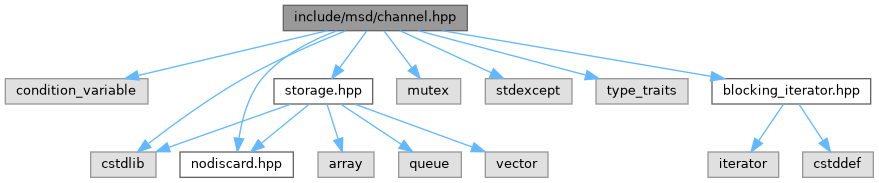
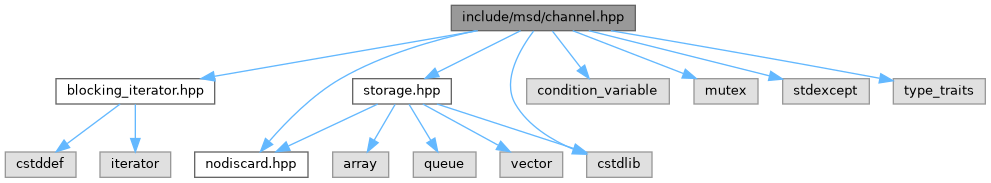
deploy: cc43d2cd2d33fa04836a93aedcb91f9f5c55fc00

diff --git a/static__channel_8hpp.html b/static__channel_8hpp.html
@@ -78,47 +78,47 @@ $(function() {
   <div class="headertitle"><div class="title">static_channel.hpp File Reference</div></div>
 </div><!--header-->
 <div class="contents">
-<div class="textblock"><code>#include &lt;cstdlib&gt;</code><br />
-<code>#include &quot;<a class="el" href="channel_8hpp_source.html">channel.hpp</a>&quot;</code><br />
+<div class="textblock"><code>#include &quot;<a class="el" href="channel_8hpp_source.html">channel.hpp</a>&quot;</code><br />
 <code>#include &quot;<a class="el" href="storage_8hpp_source.html">storage.hpp</a>&quot;</code><br />
+<code>#include &lt;cstdlib&gt;</code><br />
 </div><div class="textblock"><div class="dynheader">
 Include dependency graph for static_channel.hpp:</div>
 <div class="dyncontent">
 <div class="center"><img src="static__channel_8hpp__incl.png" border="0" usemap="#ainclude_2msd_2static__channel_8hpp" alt=""/></div>
 <map name="ainclude_2msd_2static__channel_8hpp" id="ainclude_2msd_2static__channel_8hpp">
-<area shape="rect" title=" " alt="" coords="481,5,622,45"/>
-<area shape="rect" title=" " alt="" coords="479,240,544,265"/>
-<area shape="poly" title=" " alt="" coords="481,38,418,52,348,77,315,94,283,114,255,139,232,168,228,180,232,190,247,202,270,213,332,229,402,240,465,246,465,251,401,245,331,234,268,218,244,207,228,194,222,180,228,165,252,135,280,110,312,89,346,72,416,47,480,32"/>
-<area shape="rect" href="channel_8hpp.html" title=" " alt="" coords="501,93,602,119"/>
-<area shape="poly" title=" " alt="" coords="554,46,554,79,549,79,549,46"/>
-<area shape="rect" href="storage_8hpp.html" title=" " alt="" coords="829,167,927,192"/>
-<area shape="poly" title=" " alt="" coords="593,43,842,158,840,163,591,48"/>
-<area shape="poly" title=" " alt="" coords="551,120,521,227,516,226,545,118"/>
-<area shape="rect" title=" " alt="" coords="243,167,385,192"/>
-<area shape="poly" title=" " alt="" coords="514,121,366,165,365,160,512,116"/>
-<area shape="rect" title=" " alt="" coords="410,167,474,192"/>
-<area shape="poly" title=" " alt="" coords="535,121,473,161,470,157,532,116"/>
-<area shape="rect" title=" " alt="" coords="549,167,636,192"/>
-<area shape="poly" title=" " alt="" coords="560,118,581,153,577,156,556,120"/>
-<area shape="rect" title=" " alt="" coords="712,167,804,192"/>
-<area shape="poly" title=" " alt="" coords="585,116,712,160,711,165,584,121"/>
-<area shape="rect" href="blocking__iterator_8hpp.html" title=" " alt="" coords="8,167,167,192"/>
-<area shape="poly" title=" " alt="" coords="501,118,176,167,175,162,500,112"/>
-<area shape="rect" href="nodiscard_8hpp.html" title=" " alt="" coords="621,240,735,265"/>
-<area shape="poly" title=" " alt="" coords="581,116,616,136,649,165,667,195,676,225,671,227,662,197,645,168,613,140,578,121"/>
-<area shape="poly" title=" " alt="" coords="603,116,816,162,815,167,601,121"/>
-<area shape="rect" title=" " alt="" coords="5,240,76,265"/>
-<area shape="poly" title=" " alt="" coords="82,194,58,230,54,227,77,191"/>
-<area shape="rect" title=" " alt="" coords="100,240,171,265"/>
-<area shape="poly" title=" " alt="" coords="97,191,122,227,118,230,93,194"/>
-<area shape="poly" title=" " alt="" coords="829,193,558,245,557,240,828,188"/>
-<area shape="poly" title=" " alt="" coords="847,195,725,238,723,233,845,190"/>
-<area shape="rect" title=" " alt="" coords="850,240,906,265"/>
-<area shape="poly" title=" " alt="" coords="881,192,881,226,875,226,875,192"/>
-<area shape="rect" title=" " alt="" coords="931,240,993,265"/>
-<area shape="poly" title=" " alt="" coords="893,190,939,229,936,233,890,194"/>
-<area shape="rect" title=" " alt="" coords="763,240,825,265"/>
-<area shape="poly" title=" " alt="" coords="866,194,820,233,817,229,863,190"/>
+<area shape="rect" title=" " alt="" coords="384,5,525,45"/>
+<area shape="rect" href="channel_8hpp.html" title=" " alt="" coords="404,93,505,119"/>
+<area shape="poly" title=" " alt="" coords="457,46,457,79,452,79,452,46"/>
+<area shape="rect" href="storage_8hpp.html" title=" " alt="" coords="96,167,195,192"/>
+<area shape="poly" title=" " alt="" coords="417,48,182,163,180,158,415,43"/>
+<area shape="rect" title=" " alt="" coords="397,240,462,265"/>
+<area shape="poly" title=" " alt="" coords="526,32,631,51,686,64,736,82,778,103,805,128,812,143,813,159,807,176,795,194,773,210,740,223,653,241,557,250,476,254,476,248,557,245,652,236,738,218,770,206,791,190,803,174,807,158,806,144,800,131,775,107,734,87,684,70,630,56,525,38"/>
+<area shape="rect" href="blocking__iterator_8hpp.html" title=" " alt="" coords="857,167,1015,192"/>
+<area shape="poly" title=" " alt="" coords="506,112,845,162,844,167,505,117"/>
+<area shape="rect" href="nodiscard_8hpp.html" title=" " alt="" coords="259,240,373,265"/>
+<area shape="poly" title=" " alt="" coords="445,121,338,232,335,228,441,117"/>
+<area shape="poly" title=" " alt="" coords="406,121,209,166,207,161,404,116"/>
+<area shape="poly" title=" " alt="" coords="450,120,438,142,429,167,426,197,428,226,423,226,421,197,424,166,433,140,445,118"/>
+<area shape="rect" title=" " alt="" coords="438,167,581,192"/>
+<area shape="poly" title=" " alt="" coords="466,117,494,154,490,157,462,121"/>
+<area shape="rect" title=" " alt="" coords="605,167,669,192"/>
+<area shape="poly" title=" " alt="" coords="485,116,596,159,594,164,483,121"/>
+<area shape="rect" title=" " alt="" coords="694,167,781,192"/>
+<area shape="poly" title=" " alt="" coords="501,116,681,161,680,166,499,121"/>
+<area shape="rect" title=" " alt="" coords="219,167,311,192"/>
+<area shape="poly" title=" " alt="" coords="425,121,310,164,308,159,423,116"/>
+<area shape="rect" title=" " alt="" coords="947,240,1018,265"/>
+<area shape="poly" title=" " alt="" coords="946,191,970,227,965,230,941,194"/>
+<area shape="rect" title=" " alt="" coords="853,240,923,265"/>
+<area shape="poly" title=" " alt="" coords="930,194,906,230,901,227,926,191"/>
+<area shape="poly" title=" " alt="" coords="174,190,277,232,275,237,172,194"/>
+<area shape="rect" title=" " alt="" coords="5,240,61,265"/>
+<area shape="poly" title=" " alt="" coords="129,194,65,235,62,230,126,190"/>
+<area shape="poly" title=" " alt="" coords="192,189,384,237,383,242,190,195"/>
+<area shape="rect" title=" " alt="" coords="86,240,149,265"/>
+<area shape="poly" title=" " alt="" coords="143,193,129,228,124,226,138,191"/>
+<area shape="rect" title=" " alt="" coords="173,240,235,265"/>
+<area shape="poly" title=" " alt="" coords="157,191,188,228,184,231,153,194"/>
 </map>
 </div>
 </div>

diff --git a/channel_8hpp.html b/channel_8hpp.html
@@ -80,48 +80,48 @@ $(function() {
   <div class="headertitle"><div class="title">channel.hpp File Reference</div></div>
 </div><!--header-->
 <div class="contents">
-<div class="textblock"><code>#include &lt;condition_variable&gt;</code><br />
+<div class="textblock"><code>#include &quot;<a class="el" href="blocking__iterator_8hpp_source.html">blocking_iterator.hpp</a>&quot;</code><br />
+<code>#include &quot;<a class="el" href="nodiscard_8hpp_source.html">nodiscard.hpp</a>&quot;</code><br />
+<code>#include &quot;<a class="el" href="storage_8hpp_source.html">storage.hpp</a>&quot;</code><br />
+<code>#include &lt;condition_variable&gt;</code><br />
 <code>#include &lt;cstdlib&gt;</code><br />
 <code>#include &lt;mutex&gt;</code><br />
 <code>#include &lt;stdexcept&gt;</code><br />
 <code>#include &lt;type_traits&gt;</code><br />
-<code>#include &quot;<a class="el" href="blocking__iterator_8hpp_source.html">blocking_iterator.hpp</a>&quot;</code><br />
-<code>#include &quot;<a class="el" href="nodiscard_8hpp_source.html">nodiscard.hpp</a>&quot;</code><br />
-<code>#include &quot;<a class="el" href="storage_8hpp_source.html">storage.hpp</a>&quot;</code><br />
 </div><div class="textblock"><div class="dynheader">
 Include dependency graph for channel.hpp:</div>
 <div class="dyncontent">
 <div class="center"><img src="channel_8hpp__incl.png" border="0" usemap="#ainclude_2msd_2channel_8hpp" alt=""/></div>
 <map name="ainclude_2msd_2channel_8hpp" id="ainclude_2msd_2channel_8hpp">
-<area shape="rect" title=" " alt="" coords="283,5,467,31"/>
-<area shape="rect" title=" " alt="" coords="5,79,148,104"/>
-<area shape="poly" title=" " alt="" coords="328,33,139,78,138,73,327,28"/>
-<area shape="rect" title=" " alt="" coords="91,152,156,177"/>
-<area shape="poly" title=" " alt="" coords="347,33,298,54,245,81,193,114,150,145,147,141,190,109,242,76,296,49,345,28"/>
-<area shape="rect" title=" " alt="" coords="397,79,461,104"/>
-<area shape="poly" title=" " alt="" coords="386,29,414,66,410,69,382,33"/>
-<area shape="rect" title=" " alt="" coords="485,79,572,104"/>
-<area shape="poly" title=" " alt="" coords="401,28,492,70,490,75,399,33"/>
-<area shape="rect" title=" " alt="" coords="596,79,688,104"/>
-<area shape="poly" title=" " alt="" coords="419,28,586,72,585,78,417,33"/>
-<area shape="rect" href="blocking__iterator_8hpp.html" title=" " alt="" coords="712,79,871,104"/>
-<area shape="poly" title=" " alt="" coords="443,28,712,74,711,79,442,33"/>
-<area shape="rect" href="nodiscard_8hpp.html" title=" " alt="" coords="180,152,293,177"/>
-<area shape="poly" title=" " alt="" coords="338,33,299,52,280,65,264,80,249,109,242,139,236,137,244,107,260,77,277,61,296,47,335,28"/>
-<area shape="rect" href="storage_8hpp.html" title=" " alt="" coords="274,79,373,104"/>
-<area shape="poly" title=" " alt="" coords="369,33,342,69,338,66,365,29"/>
-<area shape="rect" title=" " alt="" coords="803,152,873,177"/>
-<area shape="poly" title=" " alt="" coords="801,103,825,139,821,142,797,106"/>
-<area shape="rect" title=" " alt="" coords="708,152,779,177"/>
-<area shape="poly" title=" " alt="" coords="786,106,761,142,756,139,781,103"/>
-<area shape="poly" title=" " alt="" coords="292,107,170,150,168,145,290,102"/>
-<area shape="poly" title=" " alt="" coords="311,106,263,145,260,141,308,102"/>
-<area shape="rect" title=" " alt="" coords="318,152,374,177"/>
-<area shape="poly" title=" " alt="" coords="330,104,341,138,336,140,325,105"/>
-<area shape="rect" title=" " alt="" coords="399,152,461,177"/>
-<area shape="poly" title=" " alt="" coords="342,102,403,142,400,147,339,106"/>
-<area shape="rect" title=" " alt="" coords="485,152,548,177"/>
-<area shape="poly" title=" " alt="" coords="355,102,473,145,472,150,353,107"/>
+<area shape="rect" title=" " alt="" coords="451,5,635,31"/>
+<area shape="rect" href="blocking__iterator_8hpp.html" title=" " alt="" coords="56,79,215,104"/>
+<area shape="poly" title=" " alt="" coords="478,33,215,79,214,74,477,28"/>
+<area shape="rect" href="nodiscard_8hpp.html" title=" " alt="" coords="195,152,308,177"/>
+<area shape="poly" title=" " alt="" coords="477,33,409,52,342,81,303,111,271,143,268,139,299,107,339,76,408,47,475,28"/>
+<area shape="rect" href="storage_8hpp.html" title=" " alt="" coords="353,79,451,104"/>
+<area shape="poly" title=" " alt="" coords="522,33,438,75,436,70,519,28"/>
+<area shape="rect" title=" " alt="" coords="587,152,652,177"/>
+<area shape="poly" title=" " alt="" coords="536,32,517,66,513,85,518,103,529,117,543,129,575,147,572,152,540,134,525,121,513,105,508,85,512,64,531,30"/>
+<area shape="rect" title=" " alt="" coords="527,79,669,104"/>
+<area shape="poly" title=" " alt="" coords="554,29,583,66,579,69,550,33"/>
+<area shape="rect" title=" " alt="" coords="694,79,758,104"/>
+<area shape="poly" title=" " alt="" coords="574,28,684,71,682,76,572,33"/>
+<area shape="rect" title=" " alt="" coords="783,79,869,104"/>
+<area shape="poly" title=" " alt="" coords="589,28,770,73,769,78,588,33"/>
+<area shape="rect" title=" " alt="" coords="893,79,985,104"/>
+<area shape="poly" title=" " alt="" coords="611,28,880,76,879,81,610,33"/>
+<area shape="rect" title=" " alt="" coords="5,152,76,177"/>
+<area shape="poly" title=" " alt="" coords="122,106,69,146,66,141,119,102"/>
+<area shape="rect" title=" " alt="" coords="100,152,171,177"/>
+<area shape="poly" title=" " alt="" coords="138,104,138,138,133,138,133,104"/>
+<area shape="poly" title=" " alt="" coords="379,106,290,148,287,144,377,102"/>
+<area shape="rect" title=" " alt="" coords="333,152,389,177"/>
+<area shape="poly" title=" " alt="" coords="397,106,377,141,372,139,393,103"/>
+<area shape="poly" title=" " alt="" coords="438,101,574,146,573,151,436,107"/>
+<area shape="rect" title=" " alt="" coords="413,152,476,177"/>
+<area shape="poly" title=" " alt="" coords="411,103,433,139,429,142,407,106"/>
+<area shape="rect" title=" " alt="" coords="500,152,563,177"/>
+<area shape="poly" title=" " alt="" coords="424,102,499,143,497,147,422,106"/>
 </map>
 </div>
 </div><div class="textblock"><div class="dynheader">

diff --git a/channel_8hpp_source.html b/channel_8hpp_source.html
@@ -87,15 +87,15 @@ $(document).ready(function() { init_codefold(0); });
 <div class="line"><a id="l00003" name="l00003"></a><span class="lineno">    3</span><span class="preprocessor">#ifndef MSD_CHANNEL_CHANNEL_HPP_</span></div>
 <div class="line"><a id="l00004" name="l00004"></a><span class="lineno">    4</span><span class="preprocessor">#define MSD_CHANNEL_CHANNEL_HPP_</span></div>
 <div class="line"><a id="l00005" name="l00005"></a><span class="lineno">    5</span> </div>
-<div class="line"><a id="l00006" name="l00006"></a><span class="lineno">    6</span><span class="preprocessor">#include &lt;condition_variable&gt;</span></div>
-<div class="line"><a id="l00007" name="l00007"></a><span class="lineno">    7</span><span class="preprocessor">#include &lt;cstdlib&gt;</span></div>
-<div class="line"><a id="l00008" name="l00008"></a><span class="lineno">    8</span><span class="preprocessor">#include &lt;mutex&gt;</span></div>
-<div class="line"><a id="l00009" name="l00009"></a><span class="lineno">    9</span><span class="preprocessor">#include &lt;stdexcept&gt;</span></div>
-<div class="line"><a id="l00010" name="l00010"></a><span class="lineno">   10</span><span class="preprocessor">#include &lt;type_traits&gt;</span></div>
-<div class="line"><a id="l00011" name="l00011"></a><span class="lineno">   11</span> </div>
-<div class="line"><a id="l00012" name="l00012"></a><span class="lineno">   12</span><span class="preprocessor">#include &quot;<a class="code" href="blocking__iterator_8hpp.html">blocking_iterator.hpp</a>&quot;</span></div>
-<div class="line"><a id="l00013" name="l00013"></a><span class="lineno">   13</span><span class="preprocessor">#include &quot;<a class="code" href="nodiscard_8hpp.html">nodiscard.hpp</a>&quot;</span></div>
-<div class="line"><a id="l00014" name="l00014"></a><span class="lineno">   14</span><span class="preprocessor">#include &quot;<a class="code" href="storage_8hpp.html">storage.hpp</a>&quot;</span></div>
+<div class="line"><a id="l00006" name="l00006"></a><span class="lineno">    6</span><span class="preprocessor">#include &quot;<a class="code" href="blocking__iterator_8hpp.html">blocking_iterator.hpp</a>&quot;</span></div>
+<div class="line"><a id="l00007" name="l00007"></a><span class="lineno">    7</span><span class="preprocessor">#include &quot;<a class="code" href="nodiscard_8hpp.html">nodiscard.hpp</a>&quot;</span></div>
+<div class="line"><a id="l00008" name="l00008"></a><span class="lineno">    8</span><span class="preprocessor">#include &quot;<a class="code" href="storage_8hpp.html">storage.hpp</a>&quot;</span></div>
+<div class="line"><a id="l00009" name="l00009"></a><span class="lineno">    9</span> </div>
+<div class="line"><a id="l00010" name="l00010"></a><span class="lineno">   10</span><span class="preprocessor">#include &lt;condition_variable&gt;</span></div>
+<div class="line"><a id="l00011" name="l00011"></a><span class="lineno">   11</span><span class="preprocessor">#include &lt;cstdlib&gt;</span></div>
+<div class="line"><a id="l00012" name="l00012"></a><span class="lineno">   12</span><span class="preprocessor">#include &lt;mutex&gt;</span></div>
+<div class="line"><a id="l00013" name="l00013"></a><span class="lineno">   13</span><span class="preprocessor">#include &lt;stdexcept&gt;</span></div>
+<div class="line"><a id="l00014" name="l00014"></a><span class="lineno">   14</span><span class="preprocessor">#include &lt;type_traits&gt;</span></div>
 <div class="line"><a id="l00015" name="l00015"></a><span class="lineno">   15</span> </div>
 <div class="line"><a id="l00018" name="l00018"></a><span class="lineno">   18</span><span class="keyword">namespace </span>msd {</div>
 <div class="line"><a id="l00019" name="l00019"></a><span class="lineno">   19</span> </div>

diff --git a/index.html b/index.html
@@ -145,14 +145,16 @@ Installation</h1>
 <ul>
 <li>Copy the <a href="https://github.com/andreiavrammsd/cpp-channel/tree/master/include">include</a> directory into your project and add it to your include path.</li>
 <li><a href="https://github.com/andreiavrammsd/cpp-channel/tree/master/examples/cmake-project">CMake FetchContent</a></li>
-<li><a href="https://cmake.org/cmake/help/latest/command/install.html">CMake install</a> - choose a <a href="https://github.com/andreiavrammsd/cpp-channel/releases">version</a>, then run: <div class="fragment"><div class="line">VERSION=X.Y.Z \</div>
+<li><a href="https://cmake.org/cmake/help/latest/command/install.html">CMake install</a> - choose a <a href="https://github.com/andreiavrammsd/cpp-channel/releases">version</a>, then run:</li>
+</ul>
+<div class="fragment"><div class="line">VERSION=X.Y.Z \</div>
 <div class="line">    &amp;&amp; wget https://github.com/andreiavrammsd/cpp-channel/archive/refs/tags/v$VERSION.zip \</div>
 <div class="line">    &amp;&amp; unzip v$VERSION.zip \</div>
 <div class="line">    &amp;&amp; cd cpp-channel-$VERSION \</div>
 <div class="line">    &amp;&amp; mkdir build &amp;&amp; cd build \</div>
 <div class="line">    &amp;&amp; cmake .. -DCMAKE_INSTALL_PREFIX=/usr/local \</div>
 <div class="line">    &amp;&amp; sudo cmake --install .</div>
-</div><!-- fragment --></li>
+</div><!-- fragment --><ul>
 <li><a href="https://github.com/andreiavrammsd/cpp-channel/tree/master/examples/bazel-project">Bazel</a></li>
 </ul>
 <h1><a class="anchor" id="autotoc_md5"></a>
@@ -165,16 +167,17 @@ Usage</h1>
 <div class="line"><span class="keywordtype">int</span> main() {</div>
 <div class="line">    <a class="code hl_class" href="classmsd_1_1channel.html">msd::channel&lt;int&gt;</a> chan; <span class="comment">// Unbuffered</span></div>
 <div class="line"> </div>
-<div class="line">    <span class="keywordtype">int</span> in = 1;</div>
-<div class="line">    <span class="keywordtype">int</span> out = 0;</div>
-<div class="line"> </div>
 <div class="line">    <span class="comment">// Send to channel</span></div>
-<div class="line">    chan &lt;&lt; in;</div>
+<div class="line">    chan &lt;&lt; 1 &lt;&lt; 2;</div>
 <div class="line"> </div>
 <div class="line">    <span class="comment">// Read from channel</span></div>
-<div class="line">    chan &gt;&gt; out;</div>
+<div class="line">    <span class="keywordtype">int</span> first{};</div>
+<div class="line">    <span class="keywordtype">int</span> second{};</div>
 <div class="line"> </div>
-<div class="line">    assert(out == 1);</div>
+<div class="line">    chan &gt;&gt; first &gt;&gt; second;</div>
+<div class="line"> </div>
+<div class="line">    assert(first == 1);</div>
+<div class="line">    assert(second == 2);</div>
 <div class="line">}</div>
 <div class="ttc" id="achannel_8hpp_html"><div class="ttname"><a href="channel_8hpp.html">channel.hpp</a></div></div>
 <div class="ttc" id="aclassmsd_1_1channel_html"><div class="ttname"><a href="classmsd_1_1channel.html">msd::channel</a></div><div class="ttdoc">Thread-safe container for sharing data between threads.</div><div class="ttdef"><b>Definition</b> channel.hpp:66</div></div>
@@ -254,8 +257,7 @@ Known limitations</h1>
 <ul>
 <li>In some cases, the integration with some STL algorithms does not compile with MSVC. See the <a href="https://github.com/andreiavrammsd/cpp-channel/blob/master/tests/channel_test.cpp">Transform test</a>.</li>
 </ul>
-<p><br  />
-</p>
+<hr  />
 <p>Developed with <a href="https://www.jetbrains.com/?from=serializer">CLion</a> and <a href="https://code.visualstudio.com/">Visual Studio Code</a>. </p>
 </div></div><!-- PageDoc -->
 </div><!-- contents -->

diff --git a/storage_8hpp.html b/storage_8hpp.html
@@ -78,27 +78,27 @@ $(function() {
   <div class="headertitle"><div class="title">storage.hpp File Reference</div></div>
 </div><!--header-->
 <div class="contents">
-<div class="textblock"><code>#include &lt;array&gt;</code><br />
+<div class="textblock"><code>#include &quot;<a class="el" href="nodiscard_8hpp_source.html">nodiscard.hpp</a>&quot;</code><br />
+<code>#include &lt;array&gt;</code><br />
 <code>#include &lt;cstdlib&gt;</code><br />
 <code>#include &lt;queue&gt;</code><br />
 <code>#include &lt;vector&gt;</code><br />
-<code>#include &quot;<a class="el" href="nodiscard_8hpp_source.html">nodiscard.hpp</a>&quot;</code><br />
 </div><div class="textblock"><div class="dynheader">
 Include dependency graph for storage.hpp:</div>
 <div class="dyncontent">
 <div class="center"><img src="storage_8hpp__incl.png" border="0" usemap="#ainclude_2msd_2storage_8hpp" alt=""/></div>
 <map name="ainclude_2msd_2storage_8hpp" id="ainclude_2msd_2storage_8hpp">
-<area shape="rect" title=" " alt="" coords="115,5,298,31"/>
-<area shape="rect" title=" " alt="" coords="5,79,61,104"/>
-<area shape="poly" title=" " alt="" coords="180,33,75,76,73,71,178,28"/>
-<area shape="rect" title=" " alt="" coords="86,79,151,104"/>
-<area shape="poly" title=" " alt="" coords="194,33,145,72,142,68,191,29"/>
-<area shape="rect" title=" " alt="" coords="175,79,238,104"/>
-<area shape="poly" title=" " alt="" coords="209,31,209,65,204,65,204,31"/>
-<area shape="rect" title=" " alt="" coords="262,79,325,104"/>
-<area shape="poly" title=" " alt="" coords="222,29,270,68,267,72,219,33"/>
-<area shape="rect" href="nodiscard_8hpp.html" title=" " alt="" coords="349,79,462,104"/>
-<area shape="poly" title=" " alt="" coords="239,28,361,71,359,76,238,33"/>
+<area shape="rect" title=" " alt="" coords="165,5,348,31"/>
+<area shape="rect" href="nodiscard_8hpp.html" title=" " alt="" coords="5,79,119,104"/>
+<area shape="poly" title=" " alt="" coords="226,33,107,76,106,71,224,28"/>
+<area shape="rect" title=" " alt="" coords="143,79,199,104"/>
+<area shape="poly" title=" " alt="" coords="245,33,197,72,194,68,241,29"/>
+<area shape="rect" title=" " alt="" coords="224,79,289,104"/>
+<area shape="poly" title=" " alt="" coords="259,31,259,65,254,65,254,31"/>
+<area shape="rect" title=" " alt="" coords="313,79,376,104"/>
+<area shape="poly" title=" " alt="" coords="272,29,321,68,318,72,269,33"/>
+<area shape="rect" title=" " alt="" coords="400,79,463,104"/>
+<area shape="poly" title=" " alt="" coords="286,28,391,71,389,76,284,33"/>
 </map>
 </div>
 </div><div class="textblock"><div class="dynheader">

diff --git a/storage_8hpp_source.html b/storage_8hpp_source.html
@@ -86,12 +86,12 @@ $(document).ready(function() { init_codefold(0); });
 <div class="line"><a id="l00003" name="l00003"></a><span class="lineno">    3</span><span class="preprocessor">#ifndef MSD_CHANNEL_STORAGE_HPP_</span></div>
 <div class="line"><a id="l00004" name="l00004"></a><span class="lineno">    4</span><span class="preprocessor">#define MSD_CHANNEL_STORAGE_HPP_</span></div>
 <div class="line"><a id="l00005" name="l00005"></a><span class="lineno">    5</span> </div>
-<div class="line"><a id="l00006" name="l00006"></a><span class="lineno">    6</span><span class="preprocessor">#include &lt;array&gt;</span></div>
-<div class="line"><a id="l00007" name="l00007"></a><span class="lineno">    7</span><span class="preprocessor">#include &lt;cstdlib&gt;</span></div>
-<div class="line"><a id="l00008" name="l00008"></a><span class="lineno">    8</span><span class="preprocessor">#include &lt;queue&gt;</span></div>
-<div class="line"><a id="l00009" name="l00009"></a><span class="lineno">    9</span><span class="preprocessor">#include &lt;vector&gt;</span></div>
-<div class="line"><a id="l00010" name="l00010"></a><span class="lineno">   10</span> </div>
-<div class="line"><a id="l00011" name="l00011"></a><span class="lineno">   11</span><span class="preprocessor">#include &quot;<a class="code" href="nodiscard_8hpp.html">nodiscard.hpp</a>&quot;</span></div>
+<div class="line"><a id="l00006" name="l00006"></a><span class="lineno">    6</span><span class="preprocessor">#include &quot;<a class="code" href="nodiscard_8hpp.html">nodiscard.hpp</a>&quot;</span></div>
+<div class="line"><a id="l00007" name="l00007"></a><span class="lineno">    7</span> </div>
+<div class="line"><a id="l00008" name="l00008"></a><span class="lineno">    8</span><span class="preprocessor">#include &lt;array&gt;</span></div>
+<div class="line"><a id="l00009" name="l00009"></a><span class="lineno">    9</span><span class="preprocessor">#include &lt;cstdlib&gt;</span></div>
+<div class="line"><a id="l00010" name="l00010"></a><span class="lineno">   10</span><span class="preprocessor">#include &lt;queue&gt;</span></div>
+<div class="line"><a id="l00011" name="l00011"></a><span class="lineno">   11</span><span class="preprocessor">#include &lt;vector&gt;</span></div>
 <div class="line"><a id="l00012" name="l00012"></a><span class="lineno">   12</span> </div>
 <div class="line"><a id="l00015" name="l00015"></a><span class="lineno">   15</span><span class="keyword">namespace </span>msd {</div>
 <div class="line"><a id="l00016" name="l00016"></a><span class="lineno">   16</span> </div>

diff --git a/static__channel_8hpp_source.html b/static__channel_8hpp_source.html
@@ -86,10 +86,10 @@ $(document).ready(function() { init_codefold(0); });
 <div class="line"><a id="l00003" name="l00003"></a><span class="lineno">    3</span><span class="preprocessor">#ifndef MSD_CHANNEL_STATIC_CHANNEL_HPP_</span></div>
 <div class="line"><a id="l00004" name="l00004"></a><span class="lineno">    4</span><span class="preprocessor">#define MSD_CHANNEL_STATIC_CHANNEL_HPP_</span></div>
 <div class="line"><a id="l00005" name="l00005"></a><span class="lineno">    5</span> </div>
-<div class="line"><a id="l00006" name="l00006"></a><span class="lineno">    6</span><span class="preprocessor">#include &lt;cstdlib&gt;</span></div>
-<div class="line"><a id="l00007" name="l00007"></a><span class="lineno">    7</span> </div>
-<div class="line"><a id="l00008" name="l00008"></a><span class="lineno">    8</span><span class="preprocessor">#include &quot;<a class="code" href="channel_8hpp.html">channel.hpp</a>&quot;</span></div>
-<div class="line"><a id="l00009" name="l00009"></a><span class="lineno">    9</span><span class="preprocessor">#include &quot;<a class="code" href="storage_8hpp.html">storage.hpp</a>&quot;</span></div>
+<div class="line"><a id="l00006" name="l00006"></a><span class="lineno">    6</span><span class="preprocessor">#include &quot;<a class="code" href="channel_8hpp.html">channel.hpp</a>&quot;</span></div>
+<div class="line"><a id="l00007" name="l00007"></a><span class="lineno">    7</span><span class="preprocessor">#include &quot;<a class="code" href="storage_8hpp.html">storage.hpp</a>&quot;</span></div>
+<div class="line"><a id="l00008" name="l00008"></a><span class="lineno">    8</span> </div>
+<div class="line"><a id="l00009" name="l00009"></a><span class="lineno">    9</span><span class="preprocessor">#include &lt;cstdlib&gt;</span></div>
 <div class="line"><a id="l00010" name="l00010"></a><span class="lineno">   10</span> </div>
 <div class="line"><a id="l00013" name="l00013"></a><span class="lineno">   13</span><span class="keyword">namespace </span>msd {</div>
 <div class="line"><a id="l00014" name="l00014"></a><span class="lineno">   14</span> </div>
